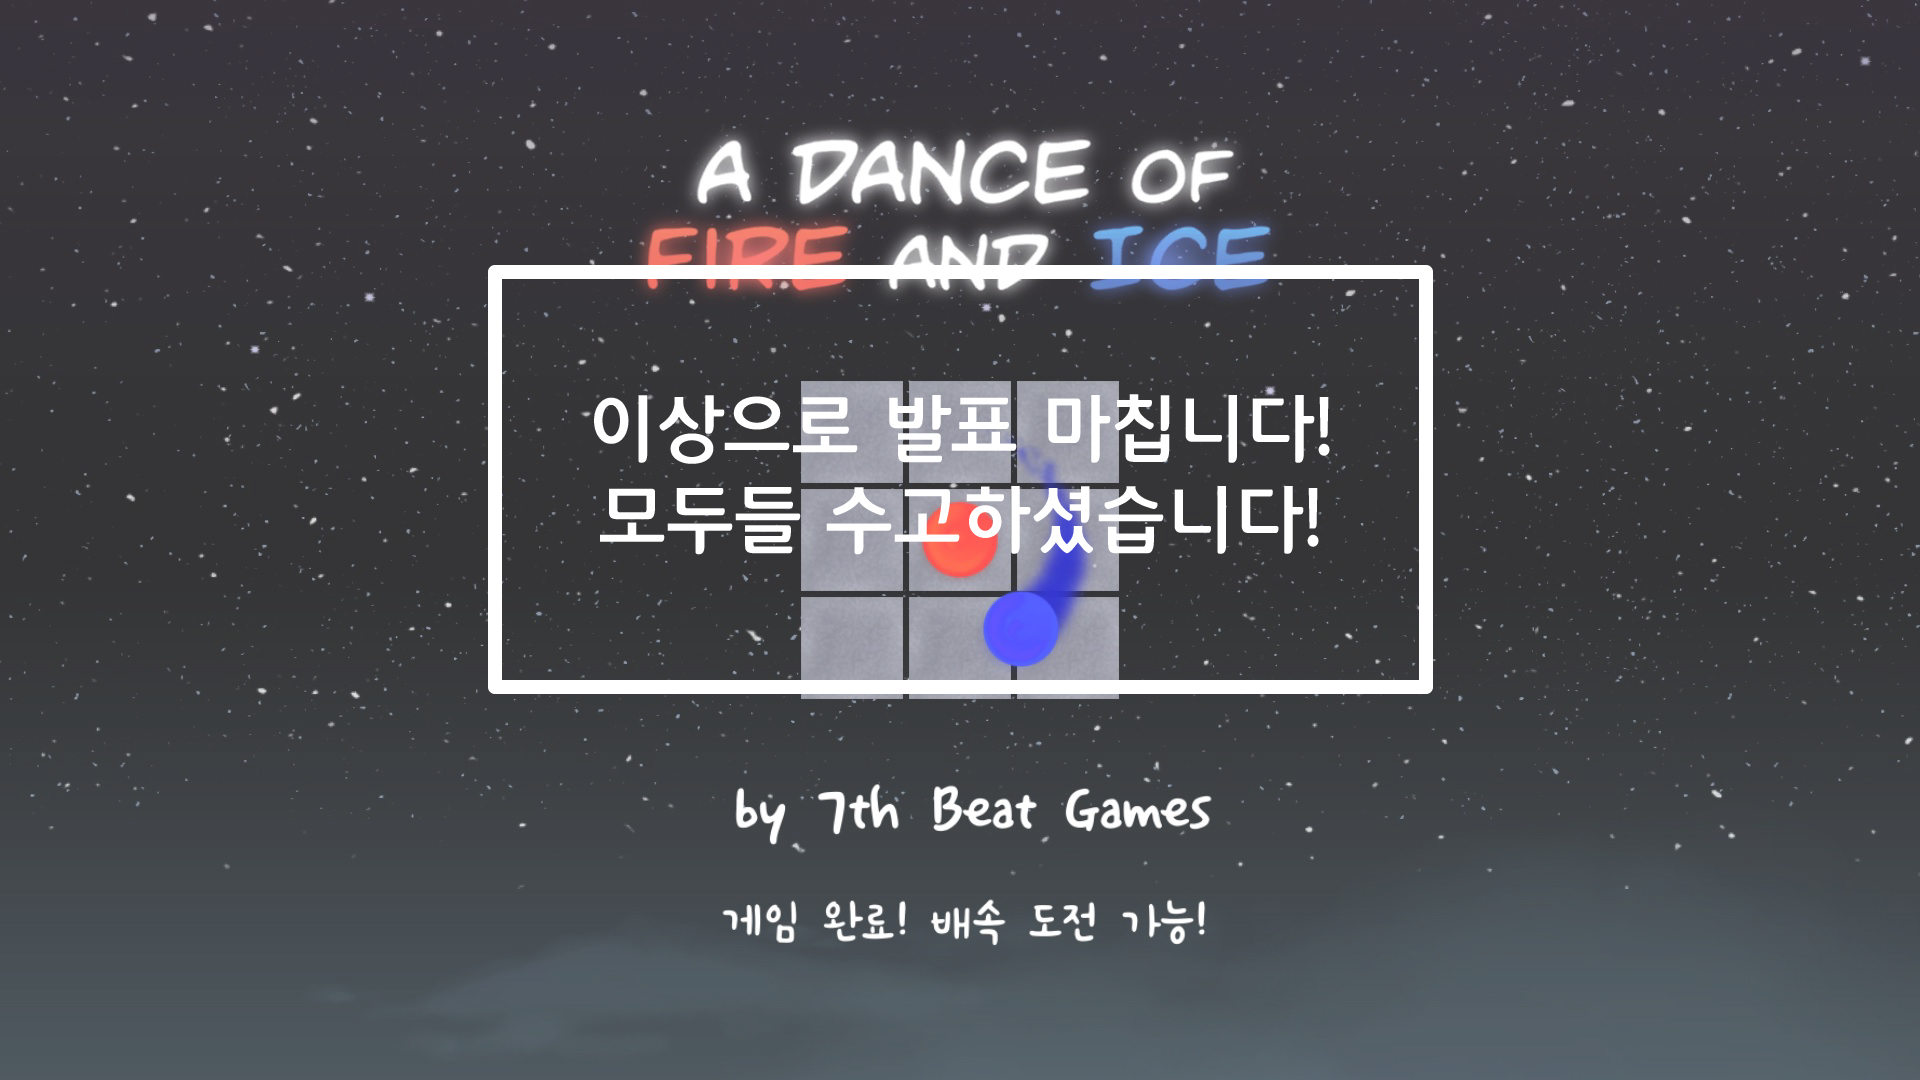
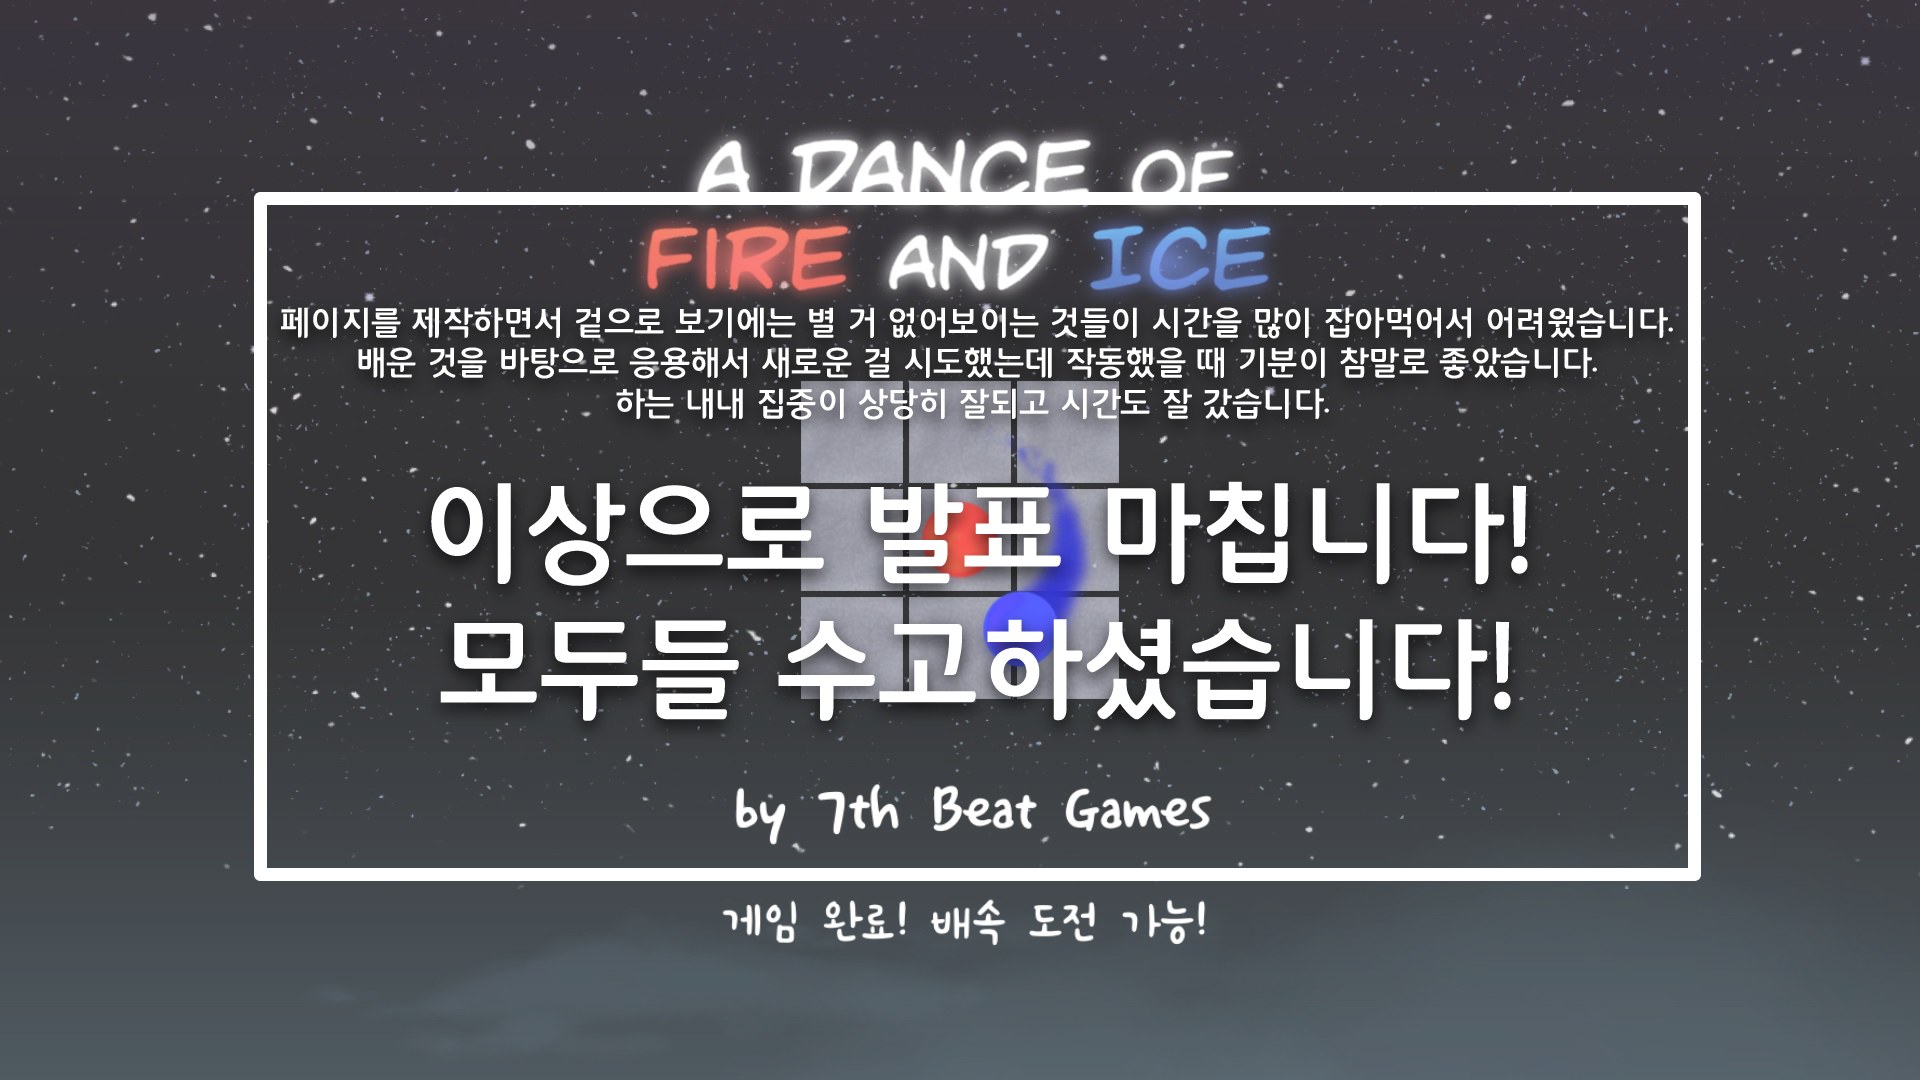
mt1_3

Changed region(s): [[0.125, 0.1528, 0.9062, 0.825]]

diff --git a/중간/middle_presentation.html b/중간/middle_presentation.html
@@ -1,6 +1,6 @@
 <!DOCTYPE html>
 <html>
-    <head style="padding: 0px 300px 0px 300px;">
+    <head>
         
         <title>A Dance of Fire and Ice</title>
         <meta charset="utf-8"/>
@@ -68,8 +68,8 @@
             #box_model{
                 background-color: white;
                 border: solid 3px gray;/* 경계선: 실선 1px 두께로 검은색*/
-                width: 200px;/* 가로 길이 */
-                height: 400px;/* 세로 길이 */
+                width: 150px;/* 가로 길이 */
+                height: 300px;/* 세로 길이 */
                 margin: 50px;/* 바깥 여백 */ 
                 padding: 30px;/* 안쪽 여백 */
                 position: static; /* static 기본 */
@@ -91,7 +91,7 @@
                 top: 170px;
             }
             #목차{
-                font-size: 20px;                
+                font-size: 30px;                
             }
             #text_box1{
                 border: solid px black;/* 경계선: 실선 1px 두께로 검은색*/
@@ -149,7 +149,7 @@
             <a href="#푸터"><img src="대지 7.png" width="50px;"/></a>
 
         </div>
-         <div style="padding: 0px 100px 0px 100px;">
+         <div style="padding: 0px 100px 0px 100px;"><br />
              7th Beat Games에서 제작한 원 터치 형식의 리듬 게임이다.
              <br /> 2014년 10월4일에 데모 버전을 출시한 후 2019년 1월 25일에 정식 출시하였다. 
              엔진은 <b>'유니티!'</b>'다.<br /><br />
@@ -157,13 +157,13 @@
              <br />
              게임 방식은 빨간색 원과 파란색 원이 번갈아가며 서로의 중심을 기준으로 회전하며 이동하는 방식으로 최종 목적지인 하얀 원까지 도달하는 클리어가 된다. 
              배경으로 깔려있는 사각형 타일에 알맞은 타이밍에 키를 누르며 한 칸씩 진행되며 그 타이밍은 해당 스테이지의 배경음악에 따라 다르다. 
-             초반에는 정박 위주의 음악들이지만 가면 갈수록 엇박 등의 변형된 형탱의 리듬들이 등장하며 난이도가 상승한다.
+             초반에는 정박 위주의 음악들이지만 가면 갈수록 엇박 등의 변형된 형탱의 리듬들이 등장하며 난이도가 상승한다.<br />
          </div>
          <a href="#목차세계" class="head_number" id="본문세계"> 2. 세계</a>
          <hr id="hr_01"/>
          <div style="padding: 0px 100px 0px 100px;">
             <ul>
-                <br/><li>총 10개의 세계(스테이지)가 있다.</li><br/><br/><br/><br/>
+                <br/><li>총 10개의 세계(스테이지)가 있다.</li><br/><br/>
             </ul>
             <div style="text-align: center;">         
                 <b>1. A Dance of Fire and Ice</b><br /><br /><img width="700px" src="세계1.jpg"/><br /><br/>
@@ -232,7 +232,7 @@
                 </li>         
             </ul>
         </div>
-        <a href="#목차영상" class="head_number" id="본문영상">5. 플레이영상</a>
+        <a href="#목차영상" class="head_number" id="본문영상">5. 플레이 영상</a>
         <hr id="hr_01"/><br/><br/>
         <div style="padding: 0px 100px 0px 100px;" style="text-align: center;">
             <video controls width="800px;">
@@ -243,7 +243,7 @@
             <br/>
             <a href="https://www.youtube.com/watch?v=U0z1cT4MARU"><i>(영상 출처: 유튜브 '강한달'님 영상 "관상용으로 만들었다는 맵을 깨버린 유저ㄷㄷㄷ")</i></a>
         </div> <br/><br/><br/><br/><br/><br/>
-        <section >
+        <section>
             <header id="푸터" >
                 <div style="padding: 100px 50px 20px 100px;" style="font-family:Hi Melody,sans-serif;">
                     해당 글은 어떠셨나요? 만족하셧나요?<br/><br/>
